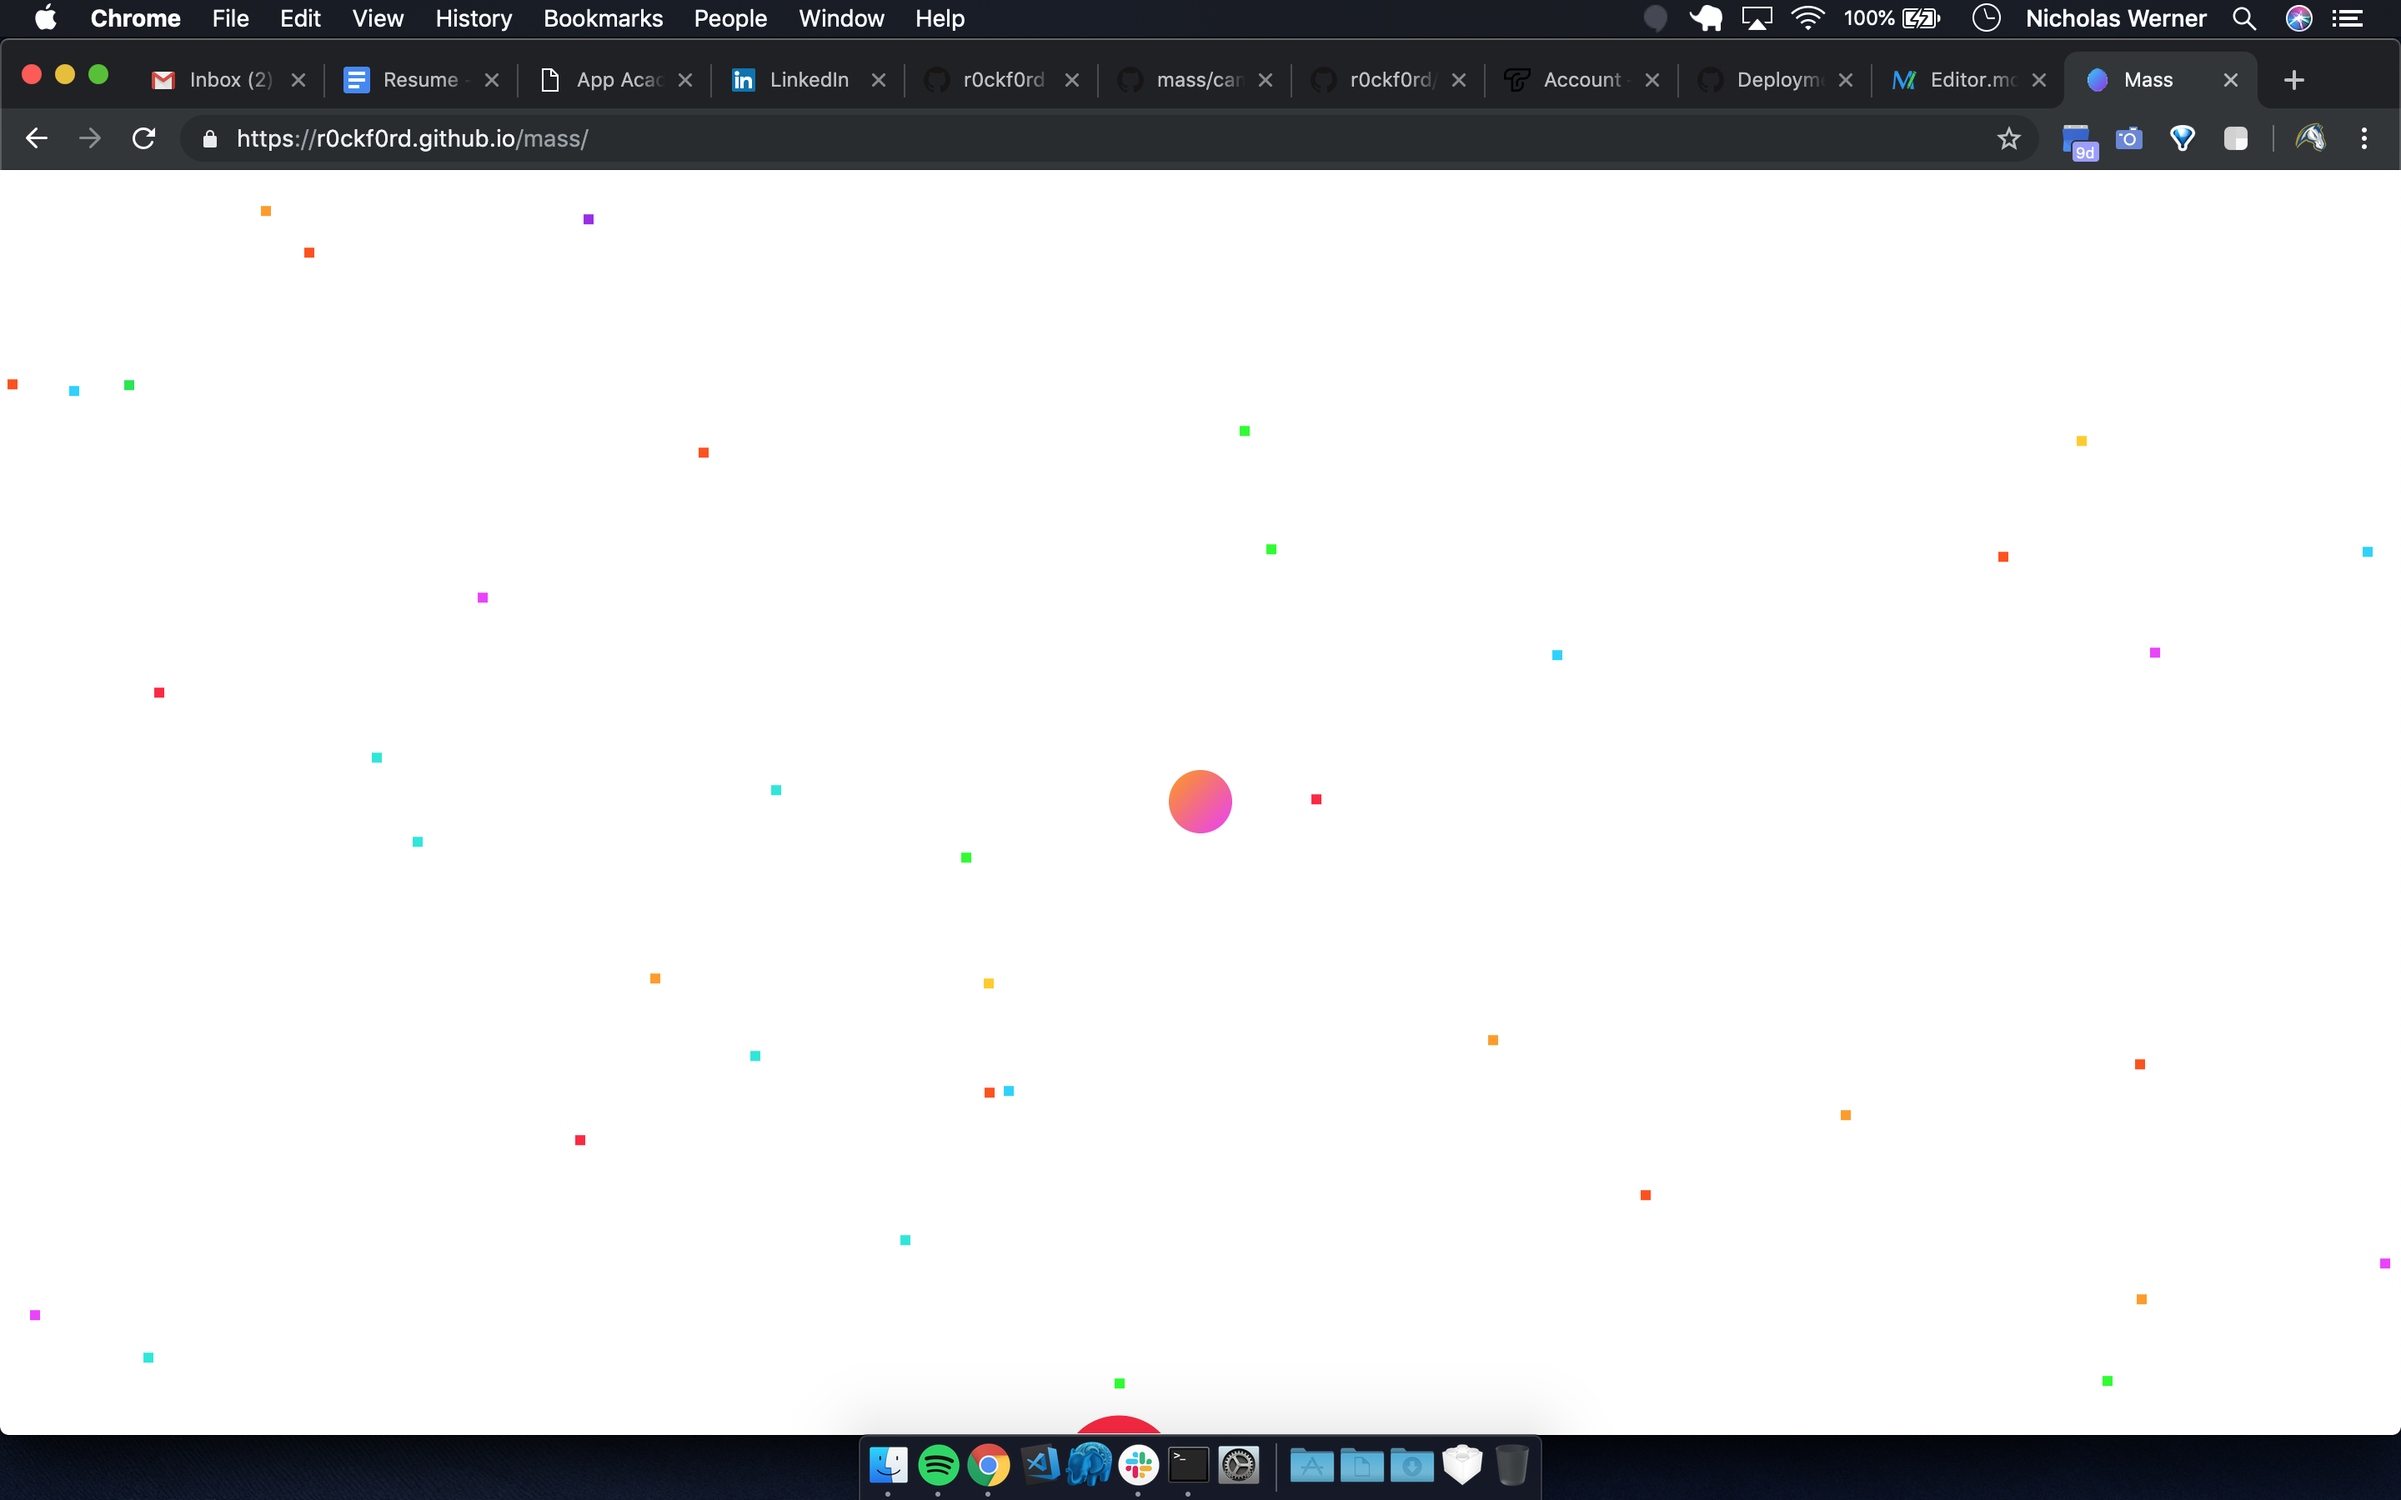
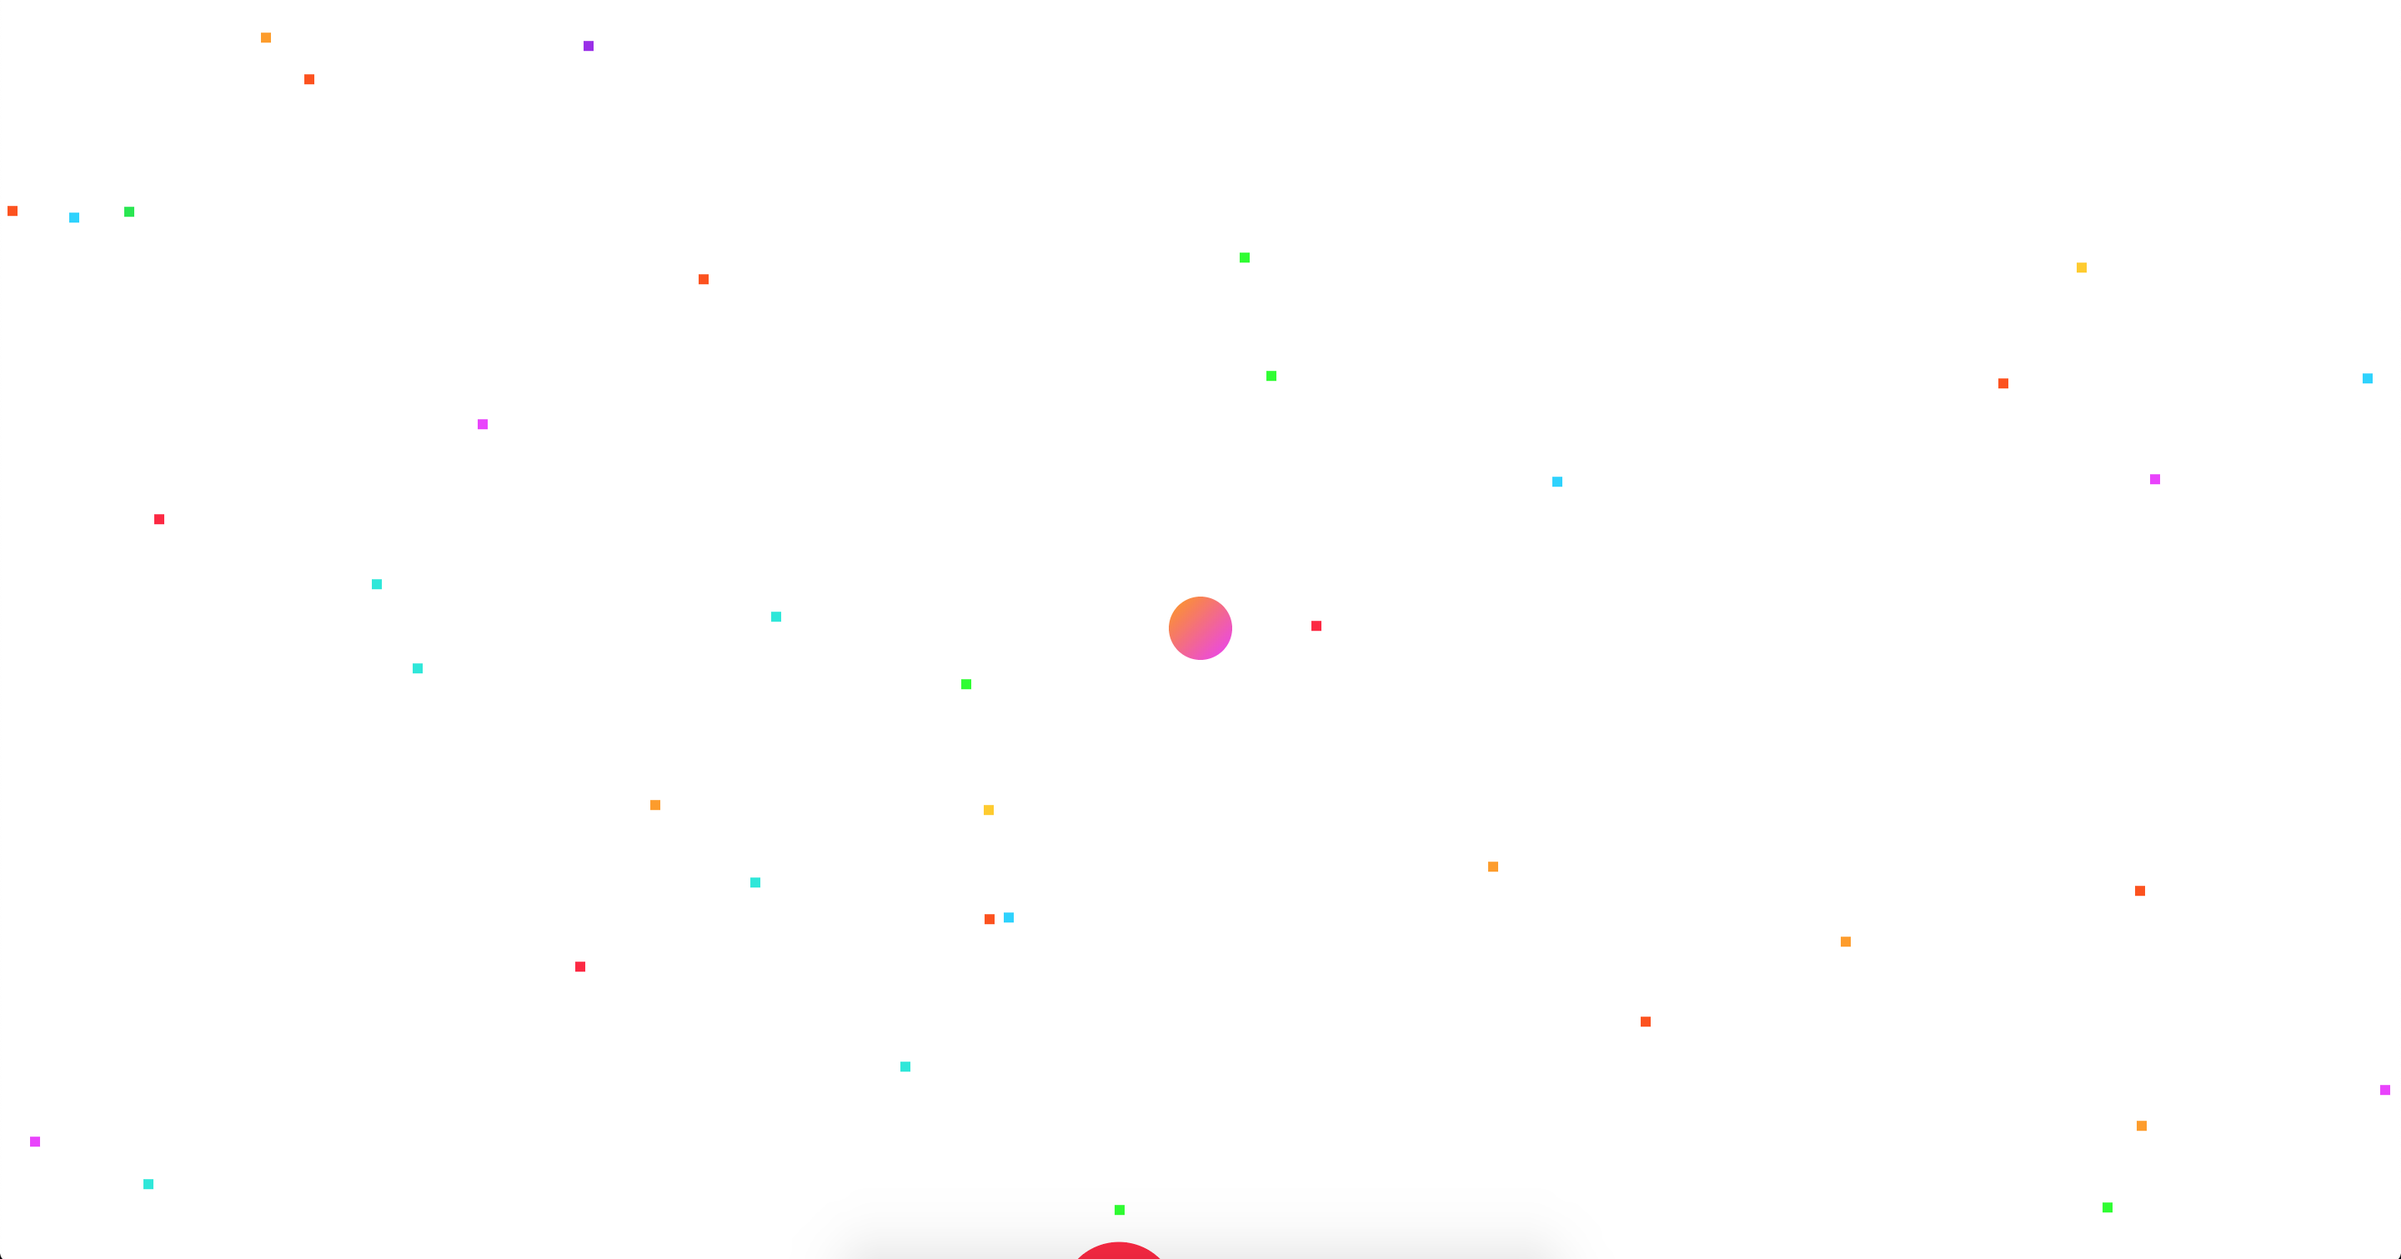
Fix Broken Link and Crop Small Image

Changed region(s): [[0.0, 0.0, 1.0, 0.1244], [0.0, 0.9332, 1.0, 1.0], [0.4688, 0.4666, 0.5312, 0.5599]]

diff --git a/README.md b/README.md
@@ -23,7 +23,7 @@ Agar.io is a very simple yet engaging game. The point of the game is to increase
 	
 	* Middle Game ![Middle](https://github.com/r0ckf0rd/mass/blob/gameover/assets/images/gameplay/larger.png)
 	
-	* End Game ![End](https://github.com/r0ckf0rd/mass/blob/gameover/assets/images/gameplay/very_larger.png)
+	* End Game ![End](https://github.com/r0ckf0rd/mass/blob/gameover/assets/images/gameplay/very_large.png)
 	
 	* Critical Mass ![Critical Mass](https://github.com/r0ckf0rd/mass/blob/gameover/assets/images/gameplay/critical_mass.png)
 	
